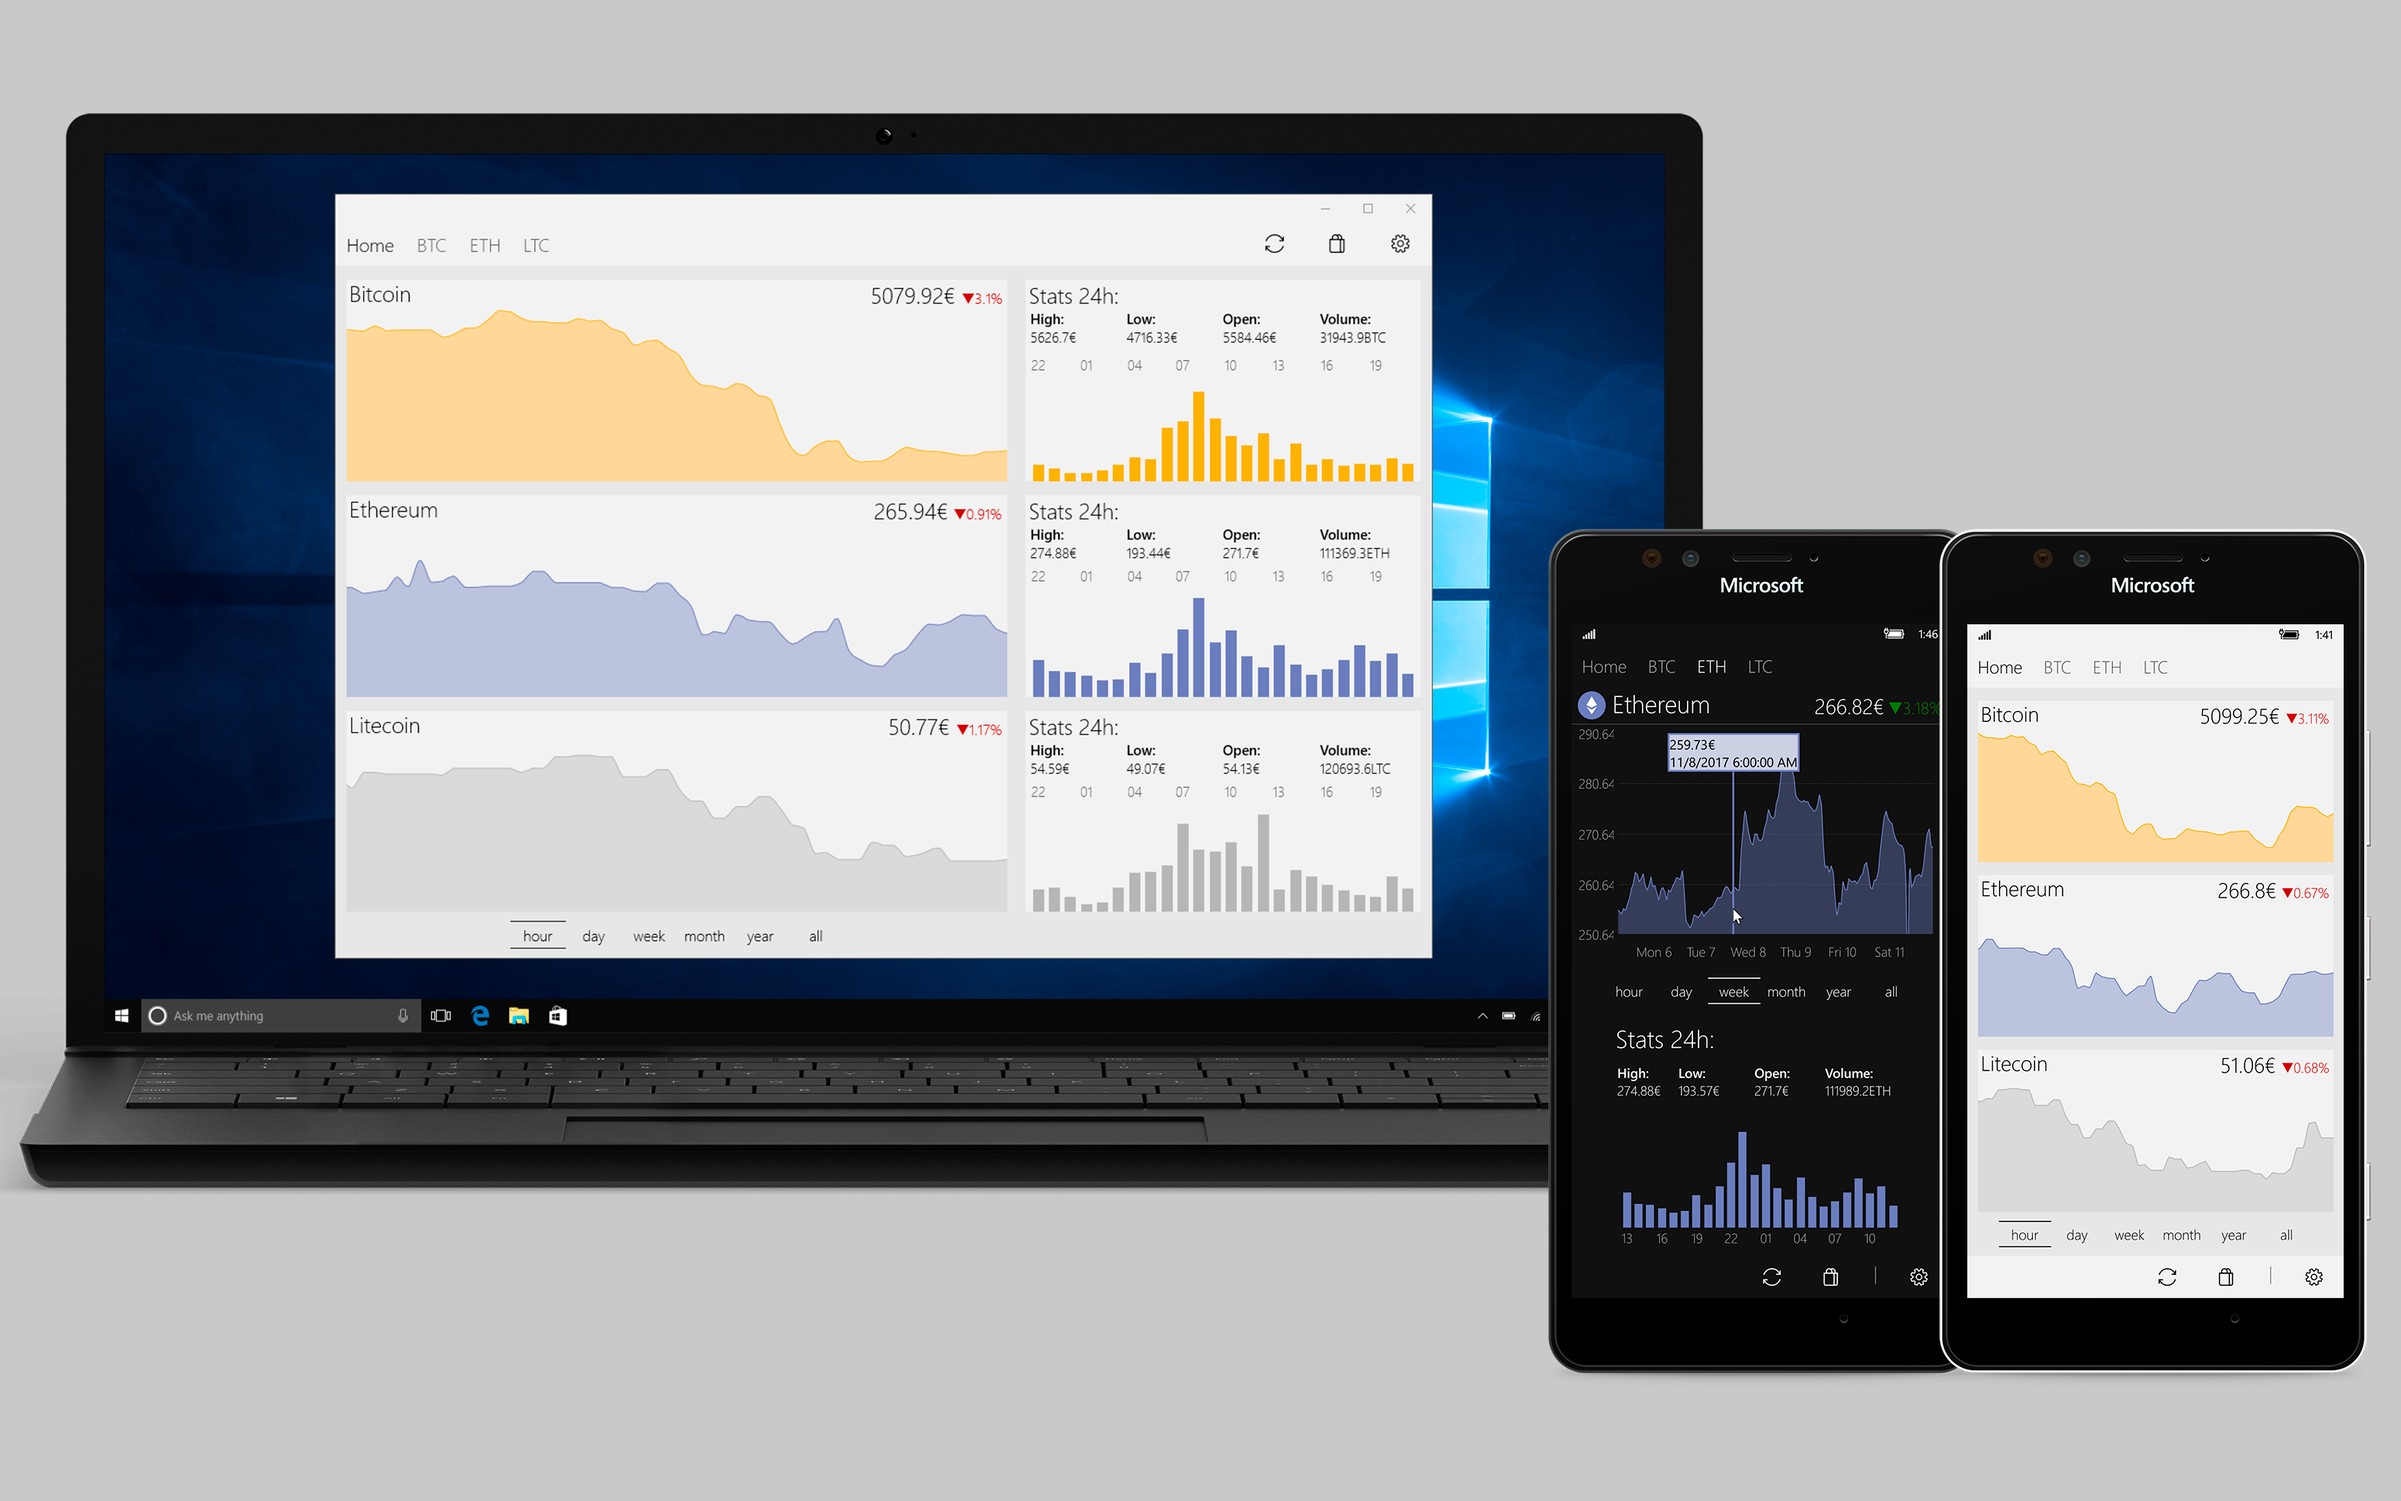
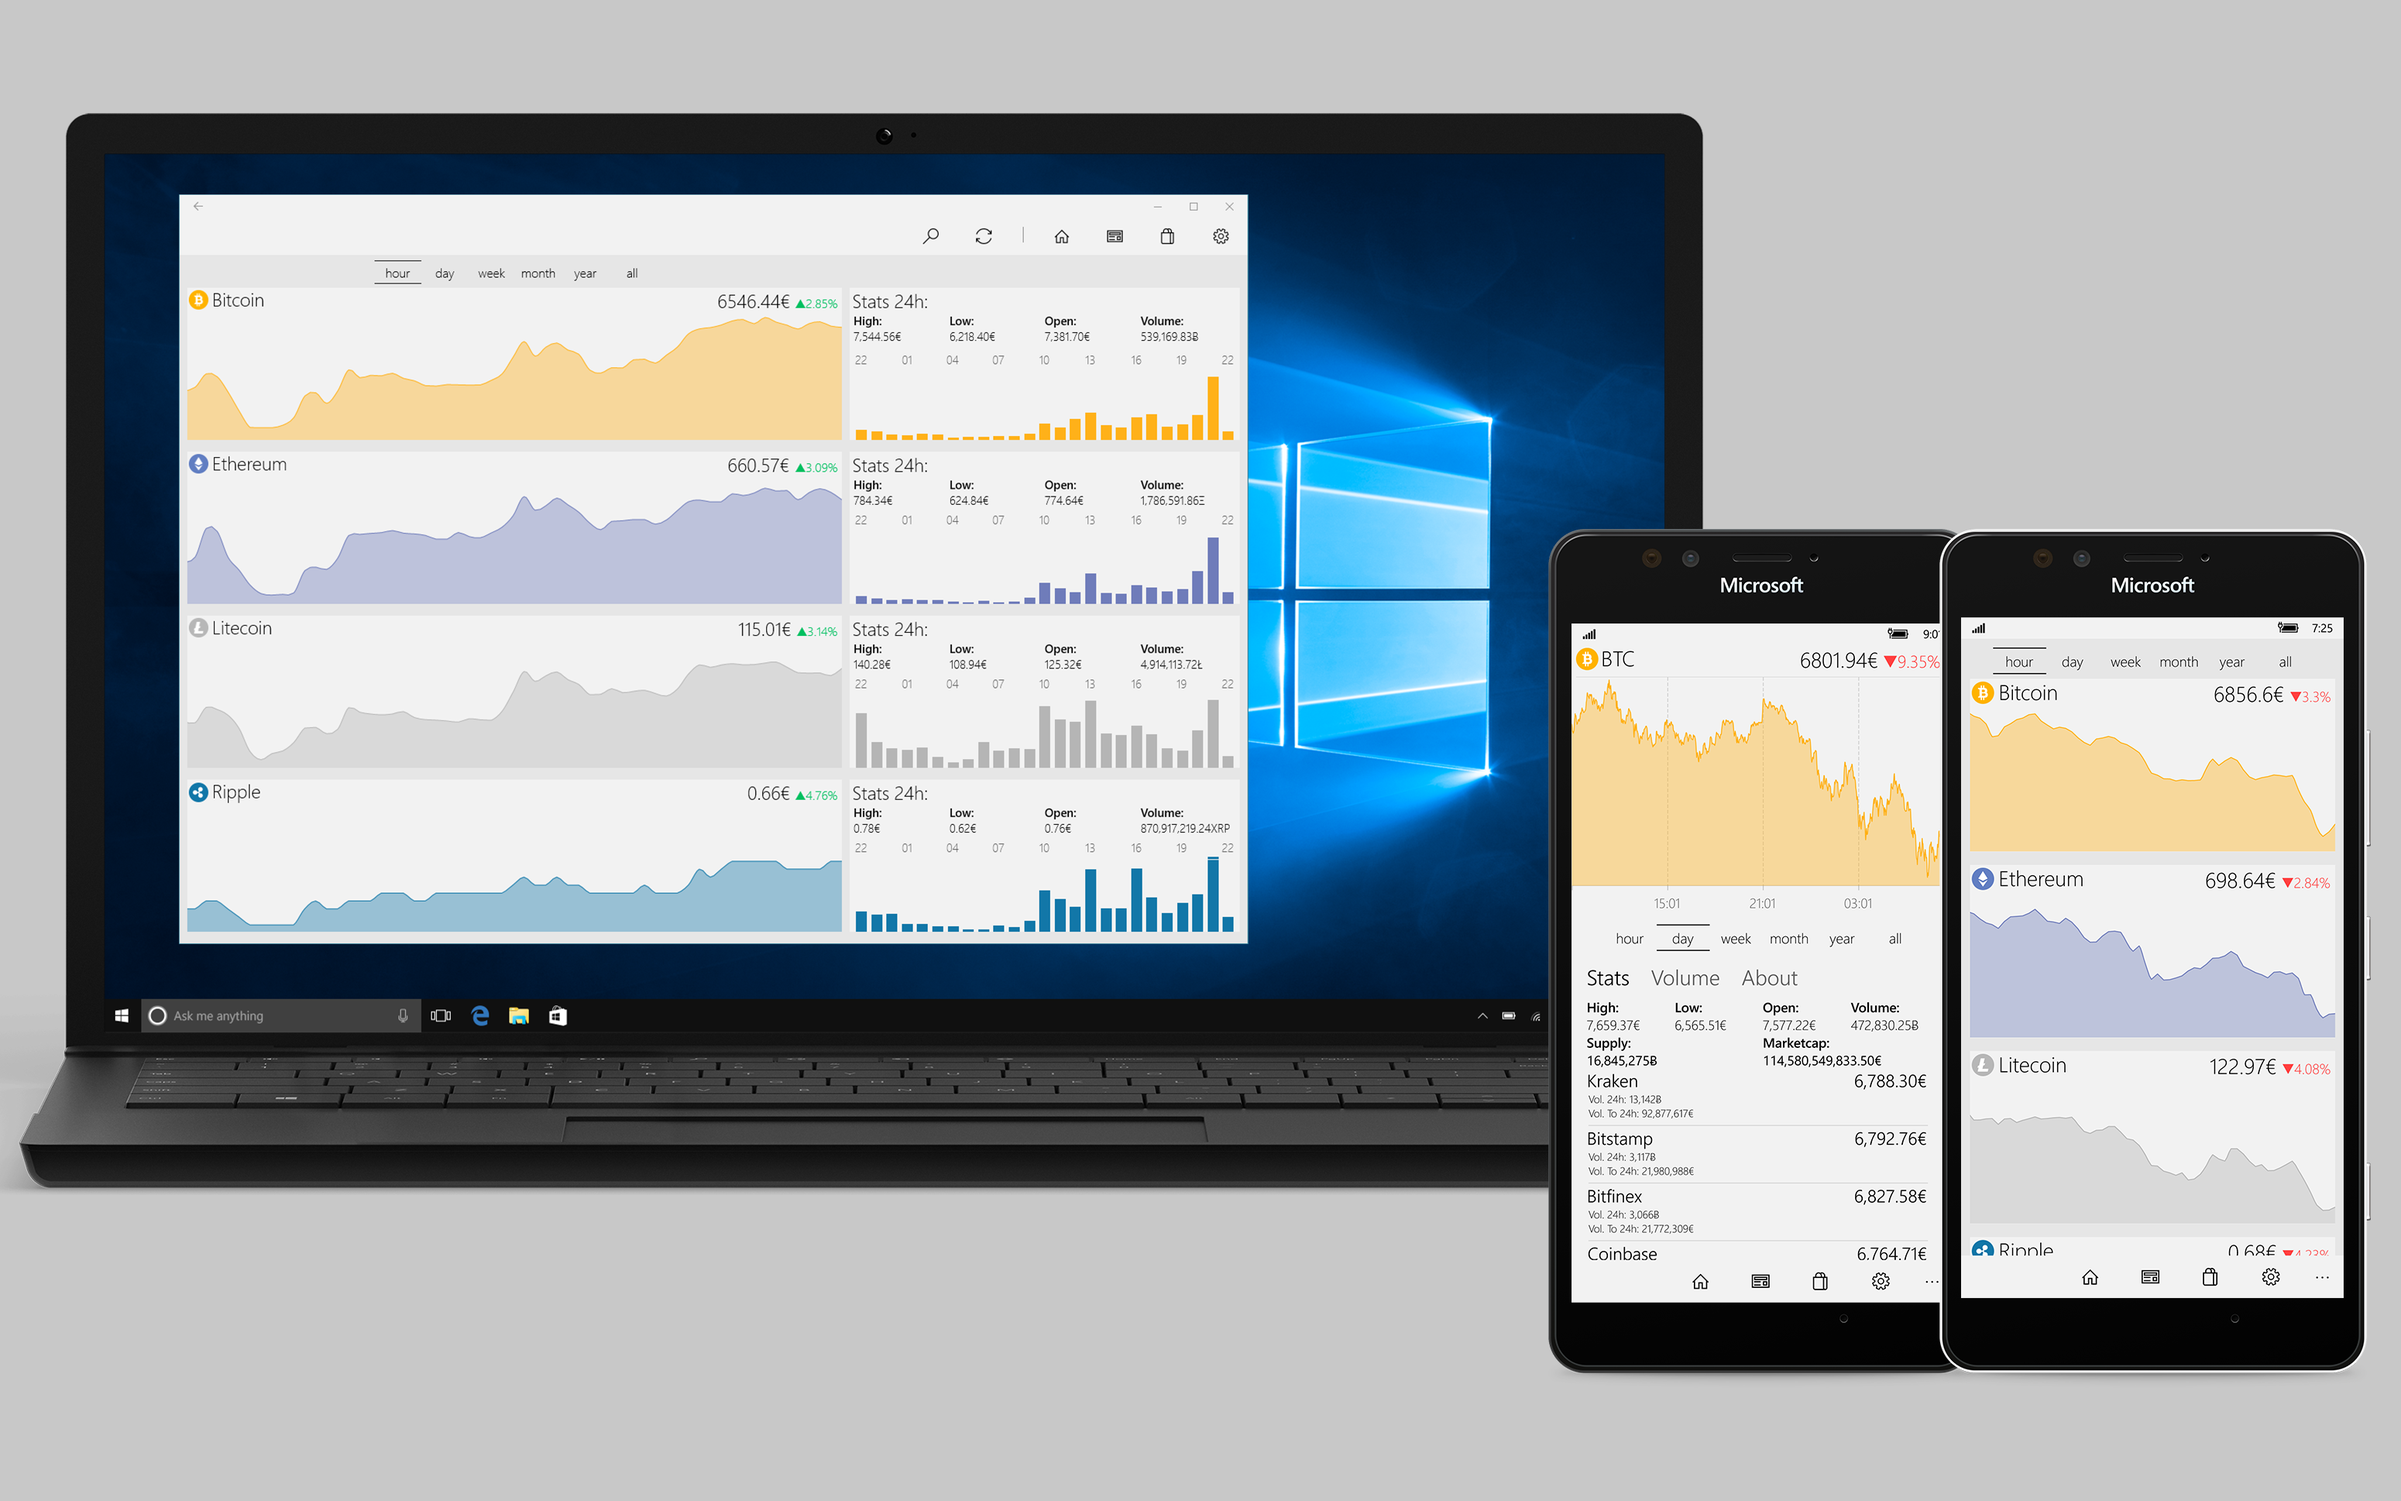
v2.3 screenshots

diff --git a/README.md b/README.md
@@ -7,28 +7,34 @@ A simple yet powerful crypto-currency tracker UWP.
 - Beautiful light and dark theme for you to choose!
 
 
-<img src="https://github.com/ismaelestalayo/CoinBase/blob/master/Screenshots/promo_transparent.png?raw=true" width = "130%"/>
+<img src="Screenshots/promo_transparent.png?raw=true" width = "130%"/>
 
 ## PC Version
 
-<img src="https://github.com/ismaelestalayo/CoinBase/blob/master/Screenshots/PC_HomeL.png?raw=true" width = "80%"/>
+<img src="Screenshots/PC_HomeL.png" width = "80%"/>
 
 
-<img src="https://github.com/ismaelestalayo/CoinBase/blob/master/Screenshots/PC_ethLL.png?raw=true" width = "80%"/>
+<img src="Screenshots/PC_btcL.png" width = "80%"/>
 
-<img src="https://github.com/ismaelestalayo/CoinBase/blob/master/Screenshots/PC_ltcD.png?raw=true" width = "80%"/>
+<img src="Screenshots/PC_ethL.png" width = "80%"/>
 
-<img src="https://github.com/ismaelestalayo/CoinBase/blob/master/Screenshots/PC_portfolioL.png?raw=true" width = "80%"/>
+<img src="Screenshots/PC_ltcL.png" width = "80%"/>
 
 ## Mobile version:
 
 <img src="Screenshots/promo_phone.gif" width="40%">
 
-<img src="https://github.com/ismaelestalayo/CoinBase/blob/master/Screenshots/Phone_homeL.png?raw=true" width = "30%"/> <img src="https://github.com/ismaelestalayo/CoinBase/blob/master/Screenshots/Phone_btcL.png?raw=true" width = "30%"/> <img src="https://github.com/ismaelestalayo/CoinBase/blob/master/Screenshots/Phone_ethD.png?raw=true" width = "30%"/>
+<img src="Screenshots/Phone_homeL.png" width = "30%"/> <img src="Screenshots/Phone_btcL.png" width = "30%"/> <img src="Screenshots/Phone_ethD.png" width = "30%"/>
 
-<img src="https://github.com/ismaelestalayo/CoinBase/blob/master/Screenshots/Phone_homeL.png?raw=true" width = "30%"/> <img src="https://github.com/ismaelestalayo/CoinBase/blob/master/Screenshots/Phone_settingsD.png?raw=true" width = "30%"/> <img src="https://github.com/ismaelestalayo/CoinBase/blob/master/Screenshots/Phone_portfolioL.png?raw=true" width = "30%"/>
+<img src="Screenshots/Phone_homeL.png" width = "30%"/> <img src="Screenshots/Phone_settingsD.png" width = "30%"/> <img src="Screenshots/Phone_portfolioL.png" width = "30%"/>
 
 # Changelog:
+#### 2.2:
+- Added 100 altcoins! (try using the search icon)
+- Richer settings page
+- Be sure to check out the new subreddit
+- Refined UI
+
 #### 2.2:
 - Added Ripple (XRP) support
 - Fixed portfolio not scrolling
